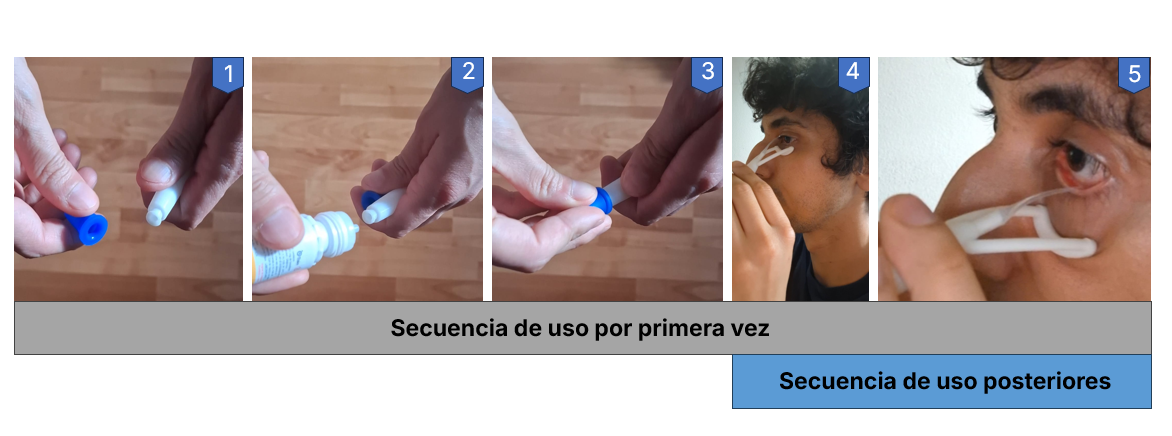
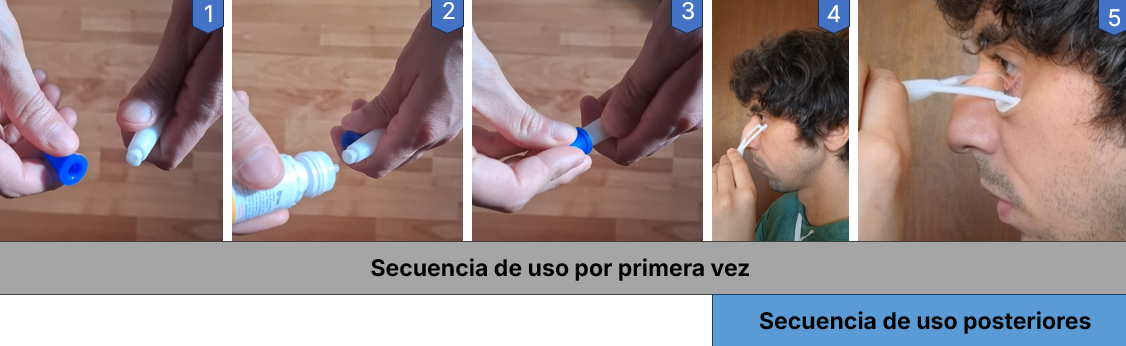
Quartz sync: Jun 18, 2026, 11:27 AM

diff --git a/content/Simpleyed.md b/content/Simpleyed.md
@@ -1,4 +1,18 @@
 ![[Secuencia de uso.png]]
-![[partes.png]]
 
 
+![[Partes.png|697]]
+
+![[Gotero_2.9.png]]
+
+![[Gotero_2.2.png]] 
+
+![[Gotero_2.4.png]] 
+
+![[Gotero_2.3.png]]  
+
+![[Gotero_2.7.png]] 
+
+![[Gotero_2.6.png]]
+
+![[Gotero_2.5.png]]
